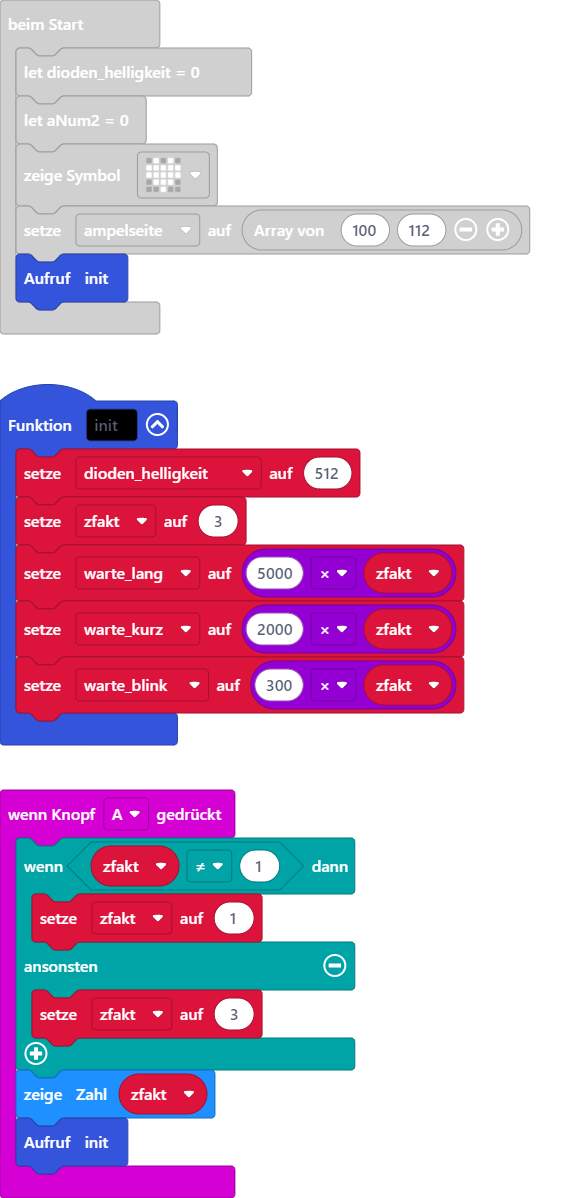
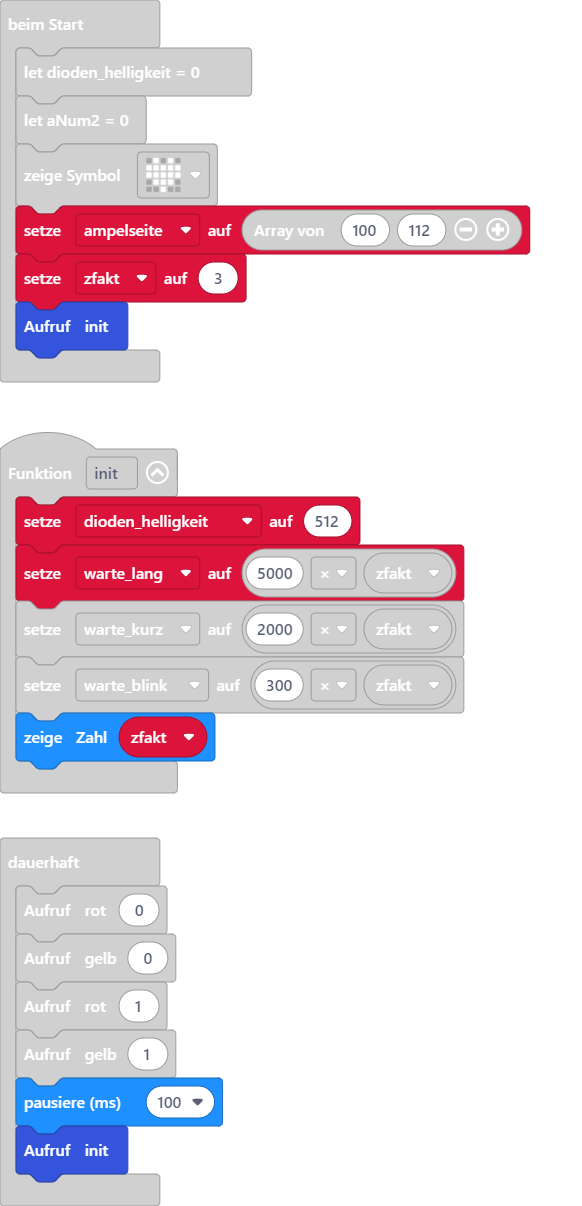
Aktualisiere main.blocks, main.ts

diff --git a/main.ts b/main.ts
@@ -35,28 +35,31 @@ input.onButtonPressed(Button.A, function () {
 })
 function init () {
     dioden_helligkeit = 512
-    zfakt = 3
     warte_lang = 5000 * zfakt
     warte_kurz = 2000 * zfakt
     warte_blink = 300 * zfakt
+    basic.showNumber(zfakt)
 }
 function alle_aus (aNum: number) {
     pins.analogWritePin(ampelseite[aNum]+0, 0)
 pins.analogWritePin(ampelseite[aNum]+1, 0)
 pins.analogWritePin(ampelseite[aNum]+2, 0)
 }
-let zfakt = 0
 let warte_blink = 0
 let warte_lang = 0
 let warte_kurz = 0
+let zfakt = 0
 let dioden_helligkeit = 0
 let aNum2 = 0
 basic.showIcon(IconNames.Heart)
 let ampelseite = [100, 112]
+zfakt = 3
 init()
 basic.forever(function () {
     rot(0)
     gelb(0)
     rot(1)
     gelb(1)
+    basic.pause(100)
+    init()
 })
